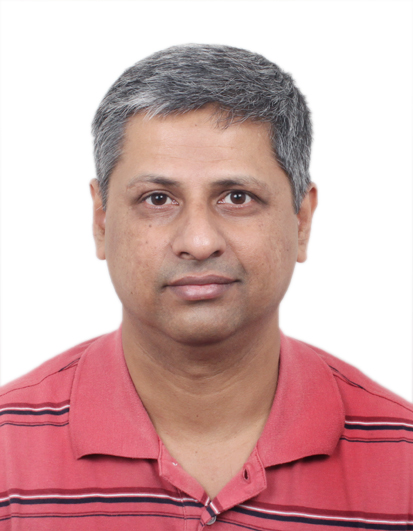
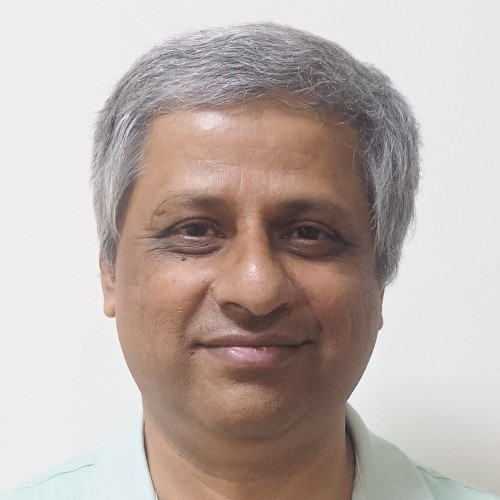
update photos

diff --git a/people.md b/people.md
@@ -16,7 +16,7 @@ Stochastic Filtering Theory, Stochastic Control
 
 _E Mail_: abhay [at] isid.ac.in
 
-_Contact Information_: +91-4149-3927 , _Office Room No_: 203
+_Contact Information_: +91-4149-3927, _Office Room No_: 203
 
 * * *
 
@@ -30,7 +30,7 @@ _Areas of interest_: Network data, Statistics for high-dimensional data, Resampl
 
 _E Mail_: cha (at) isid.ac.in
 
-_Contact Information_: +91-4149-3920 , _Office Room No_: 120
+_Contact Information_: +91-4149-3920, _Office Room No_: 120
 
 
 * * *
@@ -43,11 +43,13 @@ _Areas of interest_: Competing Risks, Reliabiliy Theory, Nonparamteric Inference
 
 _E Mail_: isha (at) isid.ac.in
 
-_Contact Information_: +91-11-4149-3944 , _Office Room No_: 220
+_Contact Information_: +91-11-4149-3944, _Office Room No_: 220
 
 * * *
 
 ## Swagata Nandi
+
+<img class="fphoto" style="float:right; max-height:200px;" src="photos/faculty/swagata-nandi.jpg" />
 
 Ph.D., Indian Institute of Technology, Kanpur
 
@@ -55,7 +57,7 @@ _Areas of interest_: Non Linear Regression, Statistical Signal Processing, Surro
 
 _E Mail_: nandi (at) isid.ac.in
 
-_Contact Information_: +91-11-41493931 , _Office Room No_: 207
+_Contact Information_: +91-11-41493931, _Office Room No_: 207
 
 
 * * *
@@ -70,7 +72,10 @@ _Areas of interest_: Statistical Computing, Statistical Graphics, Computational 
 
 _E Mail_: deepayan.sarkar (at) gmail.com, deepayan (at) isid.ac.in
 
-_Contact Information_: +91-11-41493937 (Office) , _Office Room No_: 213
+_Contact Information_: +91-11-41493937, _Office Room No_: 213
+
+
+<!--
 
 * * *
 
@@ -86,3 +91,4 @@ _E Mail_: sohamsarkar (at) isid.ac.in
 
 _Contact Information_: +91-11-4149-3960 , _Office Room No_: 312 
 
+-->
